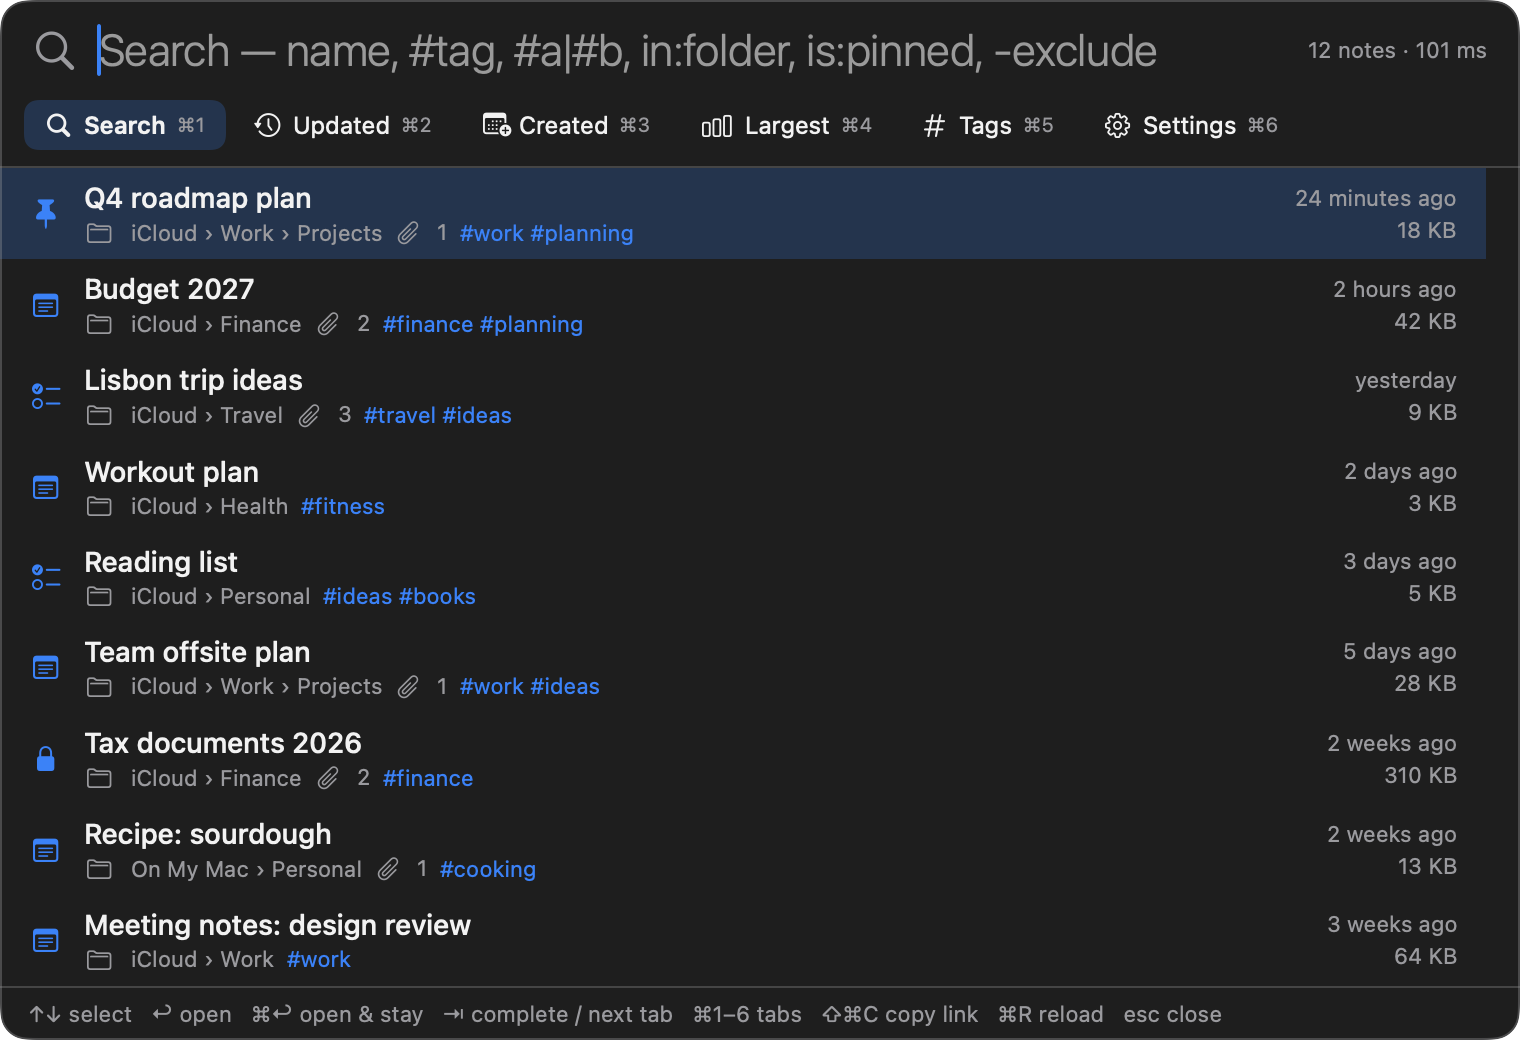
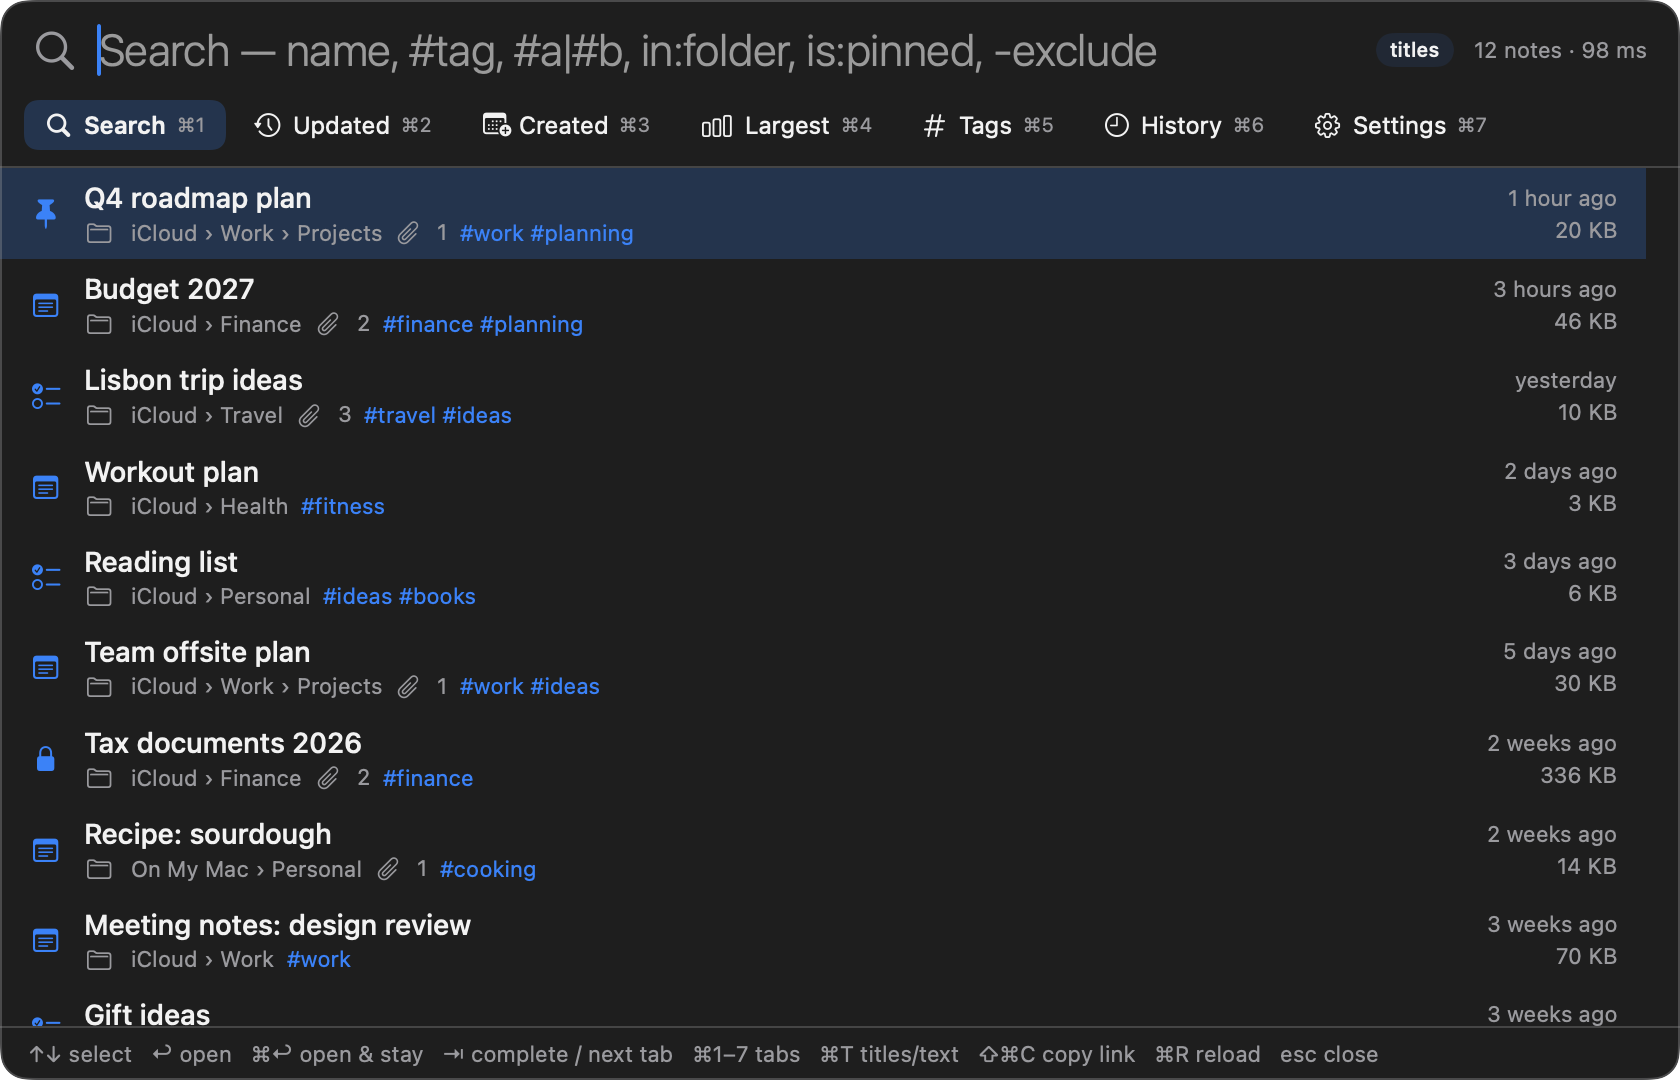
Docs for 1.3: optional note-text search, History tab, tag multi-select, privacy

diff --git a/docs/tabs-and-settings.md b/docs/tabs-and-settings.md
@@ -2,7 +2,7 @@
 
 ## Tabs
 
-Switch tabs with **⌘1 … ⌘6**, by clicking, or with **Tab** when no autocomplete suggestion is showing.
+Switch tabs with **⌘1 … ⌘7**, by clicking, or with **Tab** when no autocomplete suggestion is showing.
 
 | Tab | Shows |
 | --- | --- |
@@ -10,12 +10,17 @@ Switch tabs with **⌘1 … ⌘6**, by clicking, or with **Tab** when no autocom
 | **Updated** (⌘2) | The most recently updated notes |
 | **Created** (⌘3) | The most recently created notes |
 | **Largest** (⌘4) | The largest notes |
-| **Tags** (⌘5) | Every hashtag with the number of notes that use it. Press Return on one to search for it |
-| **Settings** (⌘6) | Options, below |
+| **Tags** (⌘5) | Every hashtag with the number of notes that use it |
+| **History** (⌘6) | Your past searches *(1.3+)* |
+| **Settings** (⌘7) | Options, below *(⌘6 before 1.3)* |
 
-Updated, Created and Largest show the top 50 notes by default; you can change the number in Settings. Typing in
-the search box filters these tabs too, using the full [search syntax](search-syntax.md). For example, on
-**Largest**, `#work` shows your largest notes tagged `#work`.
+The popup always opens on the Search tab with an empty search box.
+
+### Updated, Created and Largest
+
+These show the top 50 notes by default; you can change the number in Settings. Typing in the search box filters
+these tabs too, using the full [search syntax](search-syntax.md). For example, on **Largest**, `#work` shows your
+largest notes tagged `#work`.
 
 ![Most recently updated notes](images/updated.png)
 
@@ -25,14 +30,32 @@ the search box filters these tabs too, using the full [search syntax](search-syn
 
 *Largest tab, Dracula theme.*
 
-![All hashtags](images/tags.png)
-
-*Tags tab, Midnight theme.*
-
 **About size:** the size shown is the stored size of the note's text. Photos, scans and other attachments are not
 included, so a note with many images can still look small.
 
-The popup always opens on the Search tab with an empty search box.
+### Tags
+
+Every hashtag in your notes, most used first, each with its note count. Type to filter the list.
+
+- **One hashtag:** highlight it and press **Return** to search for it.
+- **Several hashtags** *(1.3+)*: press **Space** (or click) to tick each one. A bar appears showing how many notes
+  have **all** of the ticked hashtags and how many have **any** of them. Press **Return** or click **All** to
+  search for notes with all of them; press **⌥Return** or click **Any** for notes with any of them. **Clear**
+  unticks everything.
+
+![All hashtags](images/tags.png)
+
+![Two hashtags ticked](images/tags-multi.png)
+
+*`#ideas` and `#work` ticked: 1 note has both, 7 notes have at least one.*
+
+### History *(1.3+)*
+
+Your last 50 searches, newest first. A search is remembered when you open a note from it, or when you close the
+popup with it still typed. Press **Return** to run one again, **⌘⌫** to remove it. Type to filter the list.
+You can stop NoteSearch remembering searches, or clear them all, in Settings.
+
+![Search history](images/history.png)
 
 ## Settings
 
@@ -43,9 +66,12 @@ The popup always opens on the Search tab with an empty search box.
 | **Color theme** | System (follows light/dark mode), Light, Dark, Notes Yellow, Solarized Light, Midnight, Nord, Dracula, Solarized Dark | System |
 | **Global shortcut** | Click **Record**, then press the combination you want. It must include Control, Option or Command. Esc cancels. **Disable** turns the shortcut off | ⌃⌥N |
 | **Notes shown in Updated / Created / Largest** | How many notes those tabs list, from 5 to 500 | 50 |
+| **Search inside note text** | Also match plain words against the text of your notes. See [Privacy](privacy.md) *(1.3+)* | Off |
 | **Close popup after opening a note** | Off keeps the popup open after Return | On |
 | **Hide popup when it loses focus** | Off keeps the popup visible when you click elsewhere | On |
 | **Launch at login** | Start NoteSearch when you log in | Off |
+| **Remember searches in the History tab** | Off stops new searches being remembered *(1.3+)* | On |
+| **Search history → Clear history** | Forgets all remembered searches *(1.3+)* | |
 | **Notes missing? → Copy diagnostics** | Copies a short report of counts about your Notes library to the clipboard, to paste into a bug report. It contains no note titles, folder names or account names *(1.2+)* | |
 
 If another app already uses the shortcut you recorded, a red message appears under the setting. Record a

diff --git a/docs/privacy.md b/docs/privacy.md
@@ -1,23 +1,36 @@
 # Privacy
 
-NoteSearch is built to know as little about your notes as it can.
+NoteSearch is built to know as little about your notes as it can, and to keep everything on your Mac.
 
-## What it reads
+## What it reads by default
 
 For each note, from the Notes library on your Mac:
 
 - Title
-- Folder and account name
+- Folder (with parent folders) and account name
 - Hashtags
 - Created and last-updated dates
 - Size of the note's text (a number only)
 - Whether it is pinned, locked or contains a checklist
 - The file names of its attachments, from version 1.1 (never the attachments themselves)
 
+With the default settings the text of your notes is not read.
+
+## Note text: only if you turn it on
+
+From version 1.3 there is an optional setting, **Search inside note text**, which is **off** unless you switch it on
+(in Settings, with **⌘T**, or by clicking the "titles" label in the popup). While it is on:
+
+- NoteSearch reads the text of your notes into memory so that searches can match it.
+- The text is **never written to disk** by NoteSearch and **never displayed**. A matching note is only marked
+  "in text".
+- **Locked notes are never read.** They are encrypted, and NoteSearch does not ask for their password.
+- Turning the setting off again discards the text from memory.
+
 ## What it never does
 
-- It never reads, shows or stores the **contents** of your notes.
 - It never changes, creates or deletes notes. Access is read-only.
+- It never reads what is inside attachments.
 - It never connects to the network. Nothing leaves your Mac, and there is no analytics or telemetry.
 
 ## What it stores
@@ -27,9 +40,16 @@ Only its own preferences, on your Mac:
 - Your settings (theme, shortcut, options)
 - Identifiers of the last 30 notes you opened through NoteSearch, so they can be listed first. These are internal
   IDs, not titles or text.
+- Your last 50 searches, for the History tab *(1.3+)*. You can turn this off or clear it in Settings.
 
 No copy or index of your notes is saved. The list is rebuilt in memory each time the popup opens.
 To erase the stored preferences, see [How do I uninstall?](troubleshooting.md#how-do-i-uninstall).
+
+## Diagnostics
+
+**Settings → Copy diagnostics** puts a short report on your clipboard for bug reports. It contains counts and
+Apple's internal field names only: no note titles, text, folder names or account names. Nothing is sent anywhere;
+you choose whether to paste it.
 
 ## Why Full Disk Access?
 

diff --git a/README.md b/README.md
@@ -26,7 +26,10 @@ Step-by-step instructions with pictures are in [Getting started](docs/getting-st
 - **Autocomplete** for hashtags and folders that already exist in your notes.
 - **Tabs** for the most recently updated, most recently created and largest notes, plus a list of all hashtags.
 - **Keyboard first**: a global shortcut, arrow keys and Return. No mouse needed.
-- **Private**: reads note titles and metadata only, never note contents, and never connects to the network.
+- **Search inside note text, if you want it**: off by default; one switch (or ⌘T) turns it on *(1.3+)*.
+- **Search history** and **multi-select hashtags** with live note counts *(1.3+)*.
+- **Private**: by default only titles and metadata are read. Note text is read only if you turn that on, is kept
+  in memory only, and is never shown or saved. NoteSearch never connects to the network.
 - **Nine colour themes** and a handful of useful options.
 
 ## Screenshots
@@ -36,7 +39,9 @@ Step-by-step instructions with pictures are in [Getting started](docs/getting-st
 | ![Search combining hashtags and a title word](docs/images/search.png) <br> Either of two hashtags, plus a word in the title | ![Hashtag autocomplete](docs/images/autocomplete.png) <br> Hashtag autocomplete |
 | ![Typo-tolerant search with folder autocomplete](docs/images/typo.png) <br> A typo still finds the note; folders autocomplete too | ![Largest notes tab](docs/images/largest.png) <br> Largest notes (Dracula theme) |
 | ![Notes with PDF attachments](docs/images/attachments.png) <br> Notes with a PDF attached: `is:attachment pdf` | ![Notes in a folder and its sub-folders](docs/images/folders.png) <br> A folder and its sub-folders: `in:work` (Solarized Dark theme) |
-| ![Tags tab](docs/images/tags.png) <br> Every hashtag with its note count (Midnight theme) | ![Settings](docs/images/settings.png) <br> Settings (Notes Yellow theme) |
+| ![Search inside note text](docs/images/text.png) <br> Searching inside note text, when turned on | ![Selecting several hashtags](docs/images/tags-multi.png) <br> Ticking several hashtags shows how many notes have all or any |
+| ![Search history](docs/images/history.png) <br> History of past searches | ![Tags tab](docs/images/tags.png) <br> Every hashtag with its note count (Midnight theme) |
+| ![Settings](docs/images/settings.png) <br> Settings (Notes Yellow theme) | |
 
 ## Documentation
 

diff --git a/docs/troubleshooting.md b/docs/troubleshooting.md
@@ -13,7 +13,7 @@ after updating the app.
 
 ## The global shortcut does nothing
 
-- Another app may be using the same combination. Open Settings (**⌘6**) and look for a red message under
+- Another app may be using the same combination. Open Settings (**⌘7**, or ⌘6 before version 1.3) and look for a red message under
   **Global shortcut**, then record a different one.
 - Check the shortcut is not disabled in Settings.
 - Make sure NoteSearch is running: its icon should be in the menu bar.
@@ -32,12 +32,13 @@ icon may be hidden behind the notch; the shortcut still works.
   match what you typed.
 - **The Updated, Created and Largest tabs show the top 50** by design. Raise the number in Settings, or use the
   Search tab to see everything.
-- **Text inside notes is not searched**, only titles, hashtags, folder names, account names and attachment file
-  names. A note you remember by its contents will not be found unless one of those matches.
+- **Text inside notes is not searched unless you turn it on.** By default only titles, hashtags, folder names,
+  account names and attachment file names are matched. From version 1.3, turn on **Search inside note text** in
+  Settings or press **⌘T**.
 - **Notes in Recently Deleted are not listed.**
 - Notes that belong to a mail account (Gmail, Exchange, IMAP) rather than iCloud or On My Mac are not supported.
 
-If notes are still missing, open Settings (**⌘6**), click **Copy diagnostics**, and paste the result into a
+If notes are still missing, open Settings (**⌘7**), click **Copy diagnostics**, and paste the result into a
 [bug report](../../../issues/new/choose). The report contains only counts, no titles or names.
 
 ## A note I just created or renamed is missing
@@ -68,8 +69,8 @@ Disk Access, and open it again. Version 1.1 hides the popup as soon as you click
 
 ## Can it search inside notes?
 
-No. NoteSearch deliberately reads titles and metadata only and never note contents. Use the search in Notes for
-that. See [How it works](how-it-works.md) for the full list of what is searched.
+Yes, from version 1.3, but it is off by default. Turn on **Search inside note text** in Settings or press **⌘T**.
+Locked notes are never read. See [How it works](how-it-works.md) for the full list of what is searched.
 
 ## Does it work with locked notes?
 

diff --git a/docs/how-it-works.md b/docs/how-it-works.md
@@ -21,8 +21,14 @@ of your notes. For every note it collects:
 - whether it is pinned, locked or has a checklist
 - the file names of attachments *(version 1.1 and later)*
 
-The text of your notes is never requested. For size, NoteSearch asks the database only "how many bytes is this?",
-not for the bytes themselves. macOS protects this file, which is why NoteSearch needs
+By default the text of your notes is not requested at all. For size, NoteSearch asks the database only "how many
+bytes is this?", not for the bytes themselves.
+
+From version 1.3 you can turn on **Search inside note text** (Settings, or **⌘T**). NoteSearch then also reads the
+text of each note into memory so that plain words can match it. The text is never written to disk and never shown;
+a matching row is only marked "in text". Locked notes are encrypted and are never read. Text is decoded on all
+processor cores and remembered until a note changes, so reopening the popup re-reads only edited notes. In our
+tests a library of about 3,000 notes loaded with its text in under a fifth of a second. macOS protects this file, which is why NoteSearch needs
 [Full Disk Access](getting-started.md#grant-full-disk-access-required-one-time).
 
 ## 2. It searches in memory
@@ -56,7 +62,8 @@ NoteSearch never opens, changes or deletes a note itself.
 | Notes inside nested folders, in every account | Yes, all of them |
 | Account names | Yes, with `account:` |
 | Attachment file names (PDFs, images, scans…) | Yes, from version 1.1. `is:attachment` lists notes that have any |
-| The text inside notes | **No**, by design |
+| The text inside notes | Only if you turn on **Search inside note text** *(1.3+)*. Off by default |
+| The text of locked notes | **No**, never |
 | The contents of attachments | **No** |
 | Notes in Recently Deleted | No |
 | Files and folders elsewhere on your Mac | No. NoteSearch only knows about Apple Notes |

diff --git a/docs/keyboard-shortcuts.md b/docs/keyboard-shortcuts.md
@@ -12,12 +12,13 @@
 | --- | --- |
 | **↑ / ↓** | Move the selection |
 | **Page Up / Page Down** | Move the selection by 10 |
-| **Return** | Open the selected note in Notes. On the Tags tab: search for the selected hashtag |
+| **Return** | Open the selected note in Notes |
 | **⌘Return** | Open the selected note and keep the popup on screen |
 | **Tab** | Accept the first autocomplete suggestion. With no suggestions: go to the next tab |
 | **⇧Tab** | Go to the previous tab |
-| **⌘1 … ⌘6** | Search, Updated, Created, Largest, Tags, Settings |
+| **⌘1 … ⌘7** | Search, Updated, Created, Largest, Tags, History, Settings *(before 1.3: ⌘1 … ⌘6, without History)* |
 | **⌘,** | Settings |
+| **⌘T** | Switch between matching titles only and titles plus note text *(1.3+)* |
 | **⇧⌘C** | Copy a link to the selected note. Opening the link shows that note in Notes |
 | **⌘R** | Reload notes |
 | **Esc** | Clear the search box. If it is already empty, close the popup |
@@ -25,6 +26,21 @@
 | **⌘Q** | Quit NoteSearch |
 
 The usual text shortcuts (⌘A, ⌘C, ⌘V, ⌘X, ⌘Z) work in the search box.
+
+## On the Tags tab
+
+| Shortcut | Action |
+| --- | --- |
+| **Return** | Search for the highlighted hashtag, or for notes that have **all** the ticked hashtags |
+| **Space** | Tick or untick the highlighted hashtag *(1.3+)* |
+| **⌥Return** | Search for notes that have **any** of the ticked hashtags *(1.3+)* |
+
+## On the History tab *(1.3+)*
+
+| Shortcut | Action |
+| --- | --- |
+| **Return** | Run the highlighted search again |
+| **⌘⌫** | Remove the highlighted search from the history |
 
 ## Menu-bar icon
 

diff --git a/docs/search-syntax.md b/docs/search-syntax.md
@@ -34,6 +34,21 @@ Only file names are used, never what is inside the files.
 
 ![Notes with PDF attachments](images/attachments.png)
 
+## Searching inside note text *(1.3+)*
+
+By default plain words match titles, folder names, hashtags and attachment file names. To also match the text
+inside notes, turn on **Search inside note text** in Settings, press **⌘T**, or click the "titles" label at the
+top right of the popup; it changes to "titles + text".
+
+- A note found through its text is marked **in text** on its row. The text itself is not shown.
+- Title matches still rank above text matches.
+- Text matching is exact (after ignoring case and accents). The fuzzy and typo fallbacks apply to titles only.
+- Locked notes are never read, so their text cannot be searched.
+
+![Searching inside note text](images/text.png)
+
+*With "titles + text" on, `invoice` finds notes that mention an invoice even though their titles do not.*
+
 ## Combining terms
 
 | You type | Meaning |

diff --git a/docs/getting-started.md b/docs/getting-started.md
@@ -26,7 +26,8 @@ Until you do, the popup shows this message instead of your notes:
 2. Turn on **NoteSearch** in the list. If it is not listed, click **+** and choose NoteSearch from Applications.
 3. Go back to the popup and click **Retry**.
 
-NoteSearch uses this access only to read note titles and metadata. See [Privacy](privacy.md).
+NoteSearch uses this access only to read your Notes library: titles and metadata by default, and note text only
+if you turn that on. See [Privacy](privacy.md).
 
 ## Your first search
 
